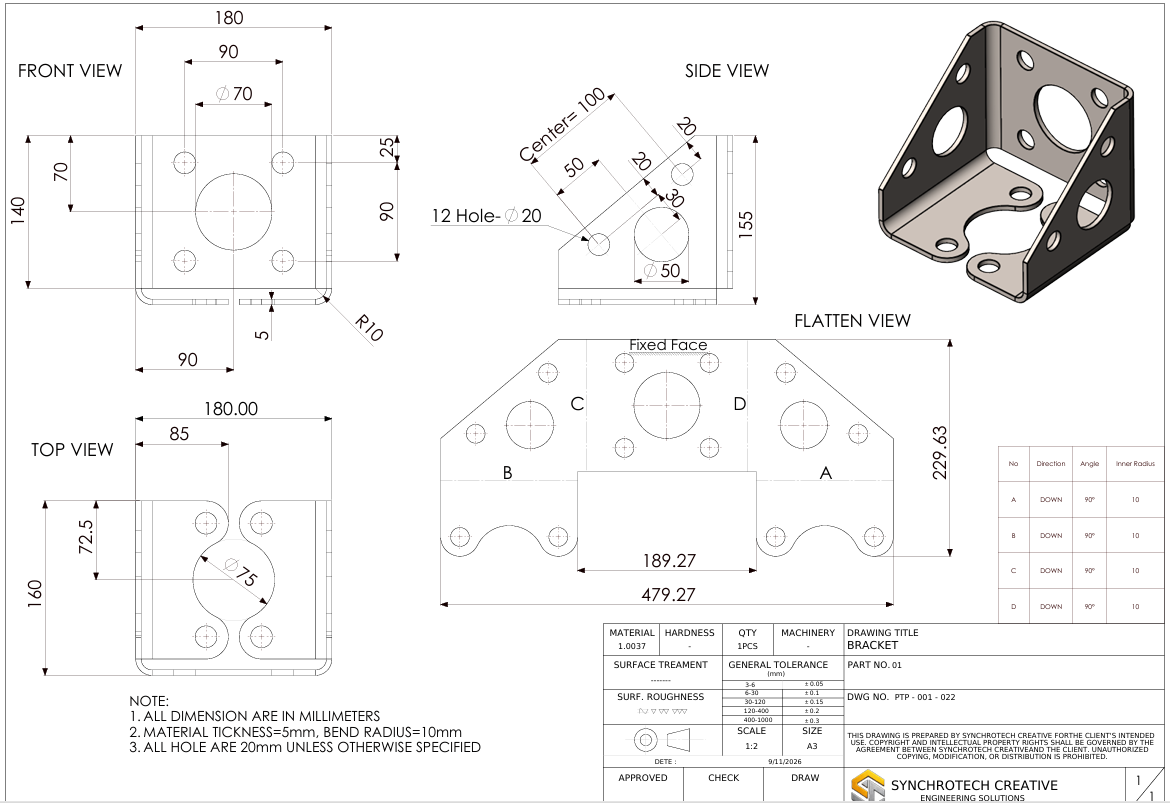
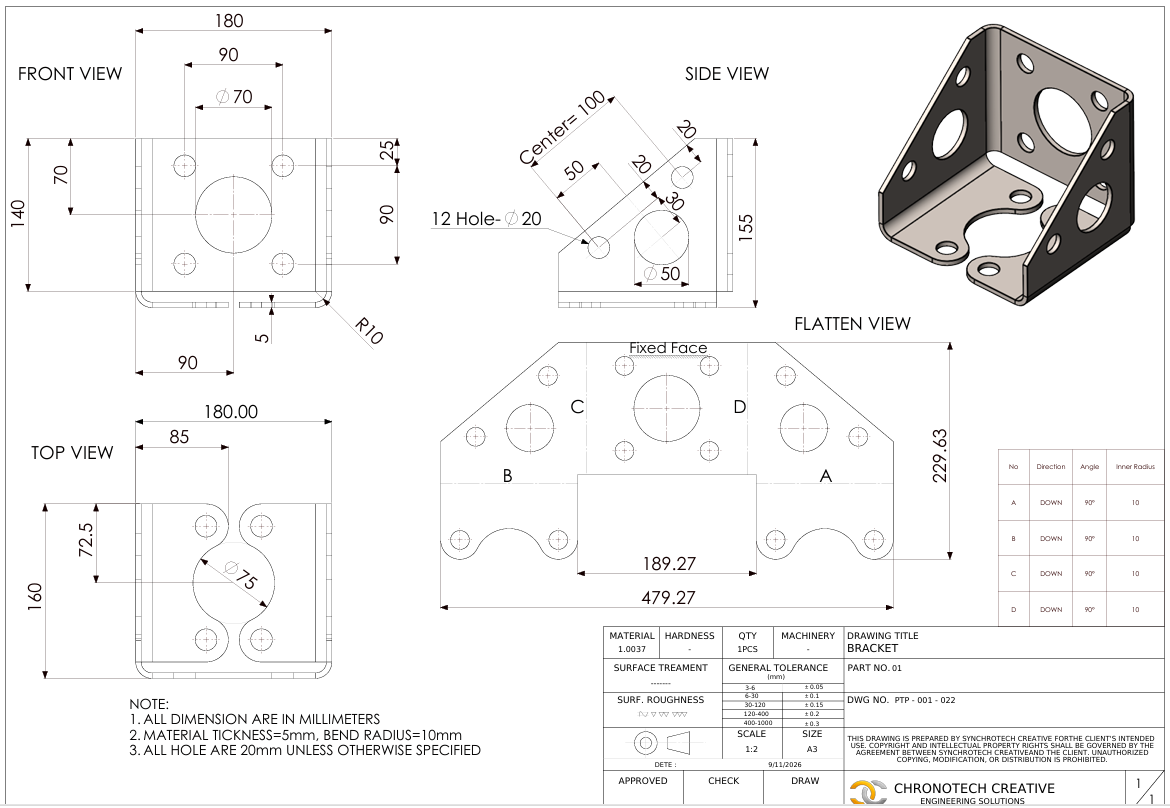
add admin auth

diff --git a/admin.js b/admin.js
@@ -1,6 +1,9 @@
 document.addEventListener("DOMContentLoaded", function () {
 
-    const API_BASE = "https://sychrotech-backend-production.up.railway.app";
+    // API sekarang satu domain sama frontend (Vercel), jadi path relatif saja.
+    const API_BASE = "";
+
+    const ADMIN_KEY_STORAGE = "chronotech_admin_key";
 
     const listView = document.getElementById("listView");
     const detailView = document.getElementById("detailView");
@@ -18,8 +21,27 @@ document.addEventListener("DOMContentLoaded", function () {
     let currentProjectId = null;
 
 
-    function formatFileSize(bytes) {
+    function getAdminKey() {
+        let key = sessionStorage.getItem(ADMIN_KEY_STORAGE);
+        if (!key) {
+            key = prompt("Masukkan password admin:");
+            if (key) sessionStorage.setItem(ADMIN_KEY_STORAGE, key);
+        }
+        return key;
+    }
 
+    function authHeaders() {
+        return { "x-admin-key": getAdminKey() || "" };
+    }
+
+    function handleUnauthorized() {
+        sessionStorage.removeItem(ADMIN_KEY_STORAGE);
+        alert("Password salah atau belum diisi. Silakan coba lagi.");
+        location.reload();
+    }
+
+
+    function formatFileSize(bytes) {
         if (bytes < 1024) return bytes + " B";
         if (bytes < 1024 * 1024) return (bytes / 1024).toFixed(1) + " KB";
         return (bytes / (1024 * 1024)).toFixed(1) + " MB";
@@ -27,7 +49,6 @@ document.addEventListener("DOMContentLoaded", function () {
 
 
     function formatDate(iso) {
-
         const date = new Date(iso);
         return date.toLocaleString("id-ID", {
             day: "2-digit", month: "short", year: "numeric",
@@ -38,7 +59,12 @@ document.addEventListener("DOMContentLoaded", function () {
 
     async function loadProjects() {
 
-        const res = await fetch(API_BASE + "/api/projects");
+        const res = await fetch(API_BASE + "/api/projects", { headers: authHeaders() });
+
+        if (res.status === 401) {
+            return handleUnauthorized();
+        }
+
         const projects = await res.json();
 
         projectCount.textContent = projects.length + " project(s) submitted";
@@ -80,7 +106,11 @@ document.addEventListener("DOMContentLoaded", function () {
 
     async function showDetail(projectId) {
 
-        const res = await fetch(API_BASE + "/api/projects/" + projectId);
+        const res = await fetch(API_BASE + "/api/projects/" + projectId, { headers: authHeaders() });
+
+        if (res.status === 401) {
+            return handleUnauthorized();
+        }
 
         if (!res.ok) {
             alert("Project not found.");
@@ -123,7 +153,7 @@ document.addEventListener("DOMContentLoaded", function () {
 
                 const li = document.createElement("li");
                 li.innerHTML = `
-                    <a href="${API_BASE}${file.url}" target="_blank" rel="noopener">${file.originalName}</a>
+                    <a href="${file.url}" target="_blank" rel="noopener">${file.originalName}</a>
                     <span class="file-size">${formatFileSize(file.size)}</span>
                 `;
 
@@ -145,11 +175,15 @@ document.addEventListener("DOMContentLoaded", function () {
 
     statusSelect.addEventListener("change", async function () {
 
-        await fetch(API_BASE + "/api/projects/" + currentProjectId + "/status", {
+        const res = await fetch(API_BASE + "/api/projects/" + currentProjectId + "/status", {
             method: "PATCH",
-            headers: { "Content-Type": "application/json" },
+            headers: Object.assign({ "Content-Type": "application/json" }, authHeaders()),
             body: JSON.stringify({ status: statusSelect.value })
         });
+
+        if (res.status === 401) {
+            return handleUnauthorized();
+        }
     });
 
 

diff --git a/api/projects.js b/api/projects.js
@@ -7,7 +7,7 @@
 
 const { supabase } = require("./_supabase");
 const { generateProjectId, parseMultipartForm, validateAndUploadFile } = require("./_helpers");
-
+const { isAdminAuthorized } = require("./_auth");
 // Vercel: disable the default JSON body parser so Busboy can
 // read the raw multipart stream itself.
 const config = { api: { bodyParser: false } };
@@ -126,9 +126,14 @@ module.exports = async function handler(req, res) {
             return await listProjects(req, res);
         }
 
-        if (req.method === "POST") {
-            return await createProject(req, res);
+        if (req.method === "GET") {
+            if (!isAdminAuthorized(req)) {
+                return res.status(401).json({ message: "Unauthorized." });
+            }
+            return await listProjects(req, res);
         }
+            
+        
 
         res.status(405).json({ message: "Method not allowed." });
 

diff --git a/api/_auth.js b/api/_auth.js
@@ -1,0 +1,20 @@
+/* =========================================================
+   Simple shared-password check for admin-only endpoints.
+   Not a full login system — just enough to stop strangers
+   from viewing/editing client data via the raw API URL.
+   ========================================================= */
+
+function isAdminAuthorized(req) {
+    const provided = req.headers["x-admin-key"];
+    const expected = process.env.ADMIN_PASSWORD;
+
+    if (!expected) {
+        // Fail closed: if no password is configured in Vercel,
+        // deny access instead of leaving the endpoint open.
+        return false;
+    }
+
+    return provided === expected;
+}
+
+module.exports = { isAdminAuthorized };

diff --git a/api/projects/[id].js b/api/projects/[id].js
@@ -4,6 +4,7 @@
    ========================================================= */
 
 const { supabase } = require("../_supabase");
+const { isAdminAuthorized } = require("../_auth");
 
 module.exports = async function handler(req, res) {
 
@@ -11,6 +12,10 @@ module.exports = async function handler(req, res) {
 
     if (req.method !== "GET") {
         return res.status(405).json({ message: "Method not allowed." });
+    }
+
+    if (!isAdminAuthorized(req)) {
+        return res.status(401).json({ message: "Unauthorized." });
     }
 
     const { data: project, error } = await supabase

diff --git a/api/projects/[id]/status.js b/api/projects/[id]/status.js
@@ -4,6 +4,7 @@
    ========================================================= */
 
 const { supabase } = require("../../_supabase");
+const { isAdminAuthorized } = require("../../_auth");
 
 module.exports = async function handler(req, res) {
 
@@ -11,6 +12,10 @@ module.exports = async function handler(req, res) {
 
     if (req.method !== "PATCH") {
         return res.status(405).json({ message: "Method not allowed." });
+    }
+
+    if (!isAdminAuthorized(req)) {
+        return res.status(401).json({ message: "Unauthorized." });
     }
 
     let body = req.body;
